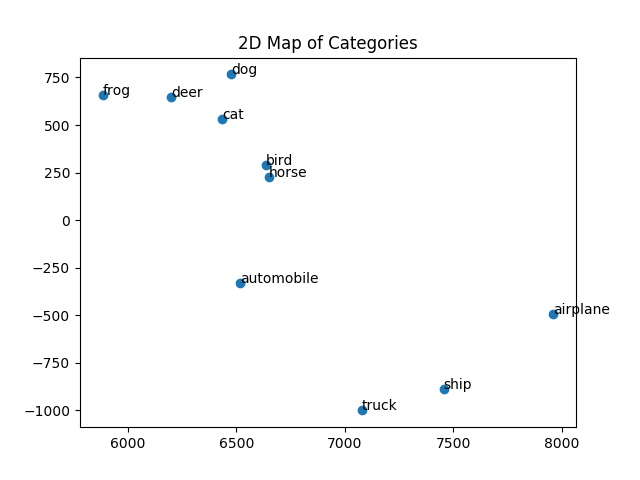
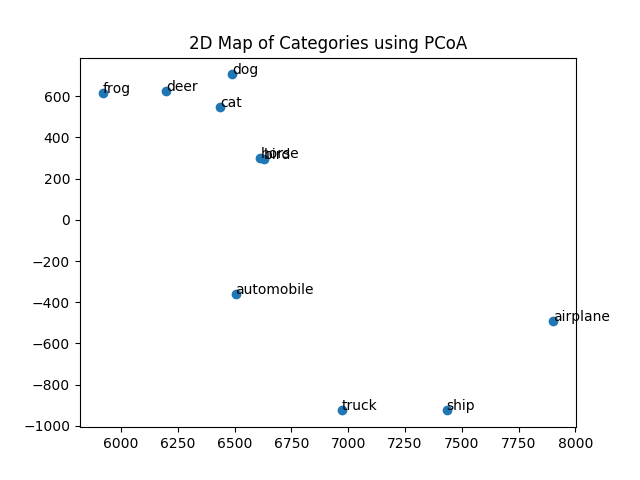
part b running on all batches

diff --git a/hw3/part-b.py b/hw3/part-b.py
@@ -31,18 +31,27 @@ def get_data(batch_file):
     labels = np.array(batch["labels"])[0:subset]
     return data, labels
 
+num_batches = 5
+mean_batch = [0] * num_batches
+for batch in range(num_batches):
+    print "working on batch " + str(batch)
+    data, labels = get_data("data_batch_" + str(batch+1))
+    split_data = get_split_data(data)
 
-data, labels = get_data("data_batch_1")
-split_data = get_split_data(data)
+    means = np.zeros((num_labels, num_dims))
+    for label_i in range(num_labels):
+        working_set = split_data[label_i]
+        means[label_i] = np.mean(working_set, 0)
+    print means
 
-means = np.zeros((num_labels, num_dims))
-for label_i in range(num_labels):
-    working_set = split_data[label_i]
-    means[label_i] = np.mean(working_set, 0)
+    mean_batch[batch] = means
+#print mean_batch
+means = np.mean(mean_batch, 0)
+#print means
 
 
 W = np.zeros((num_labels,num_labels))
-for i in range(num_labels):
+for i in range(num_labels), 0:
     for j in range(num_labels):
         W[i,j] = means[i].dot(means[j])
 
